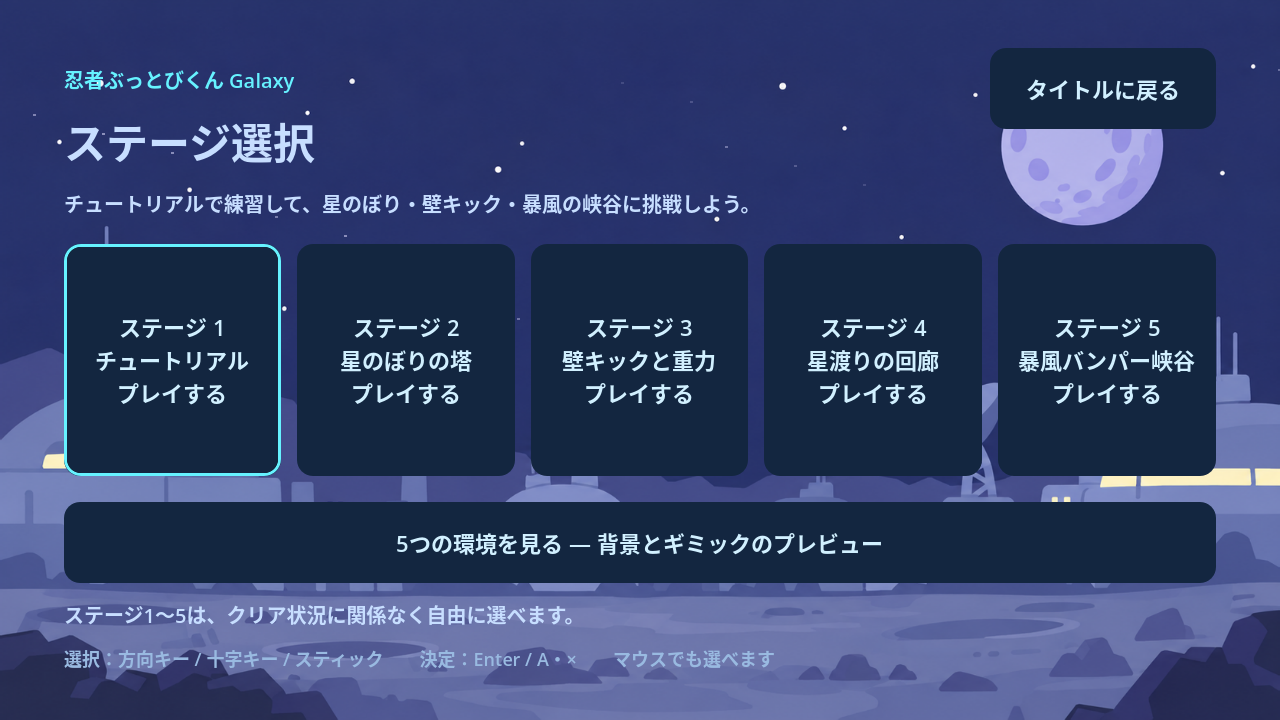
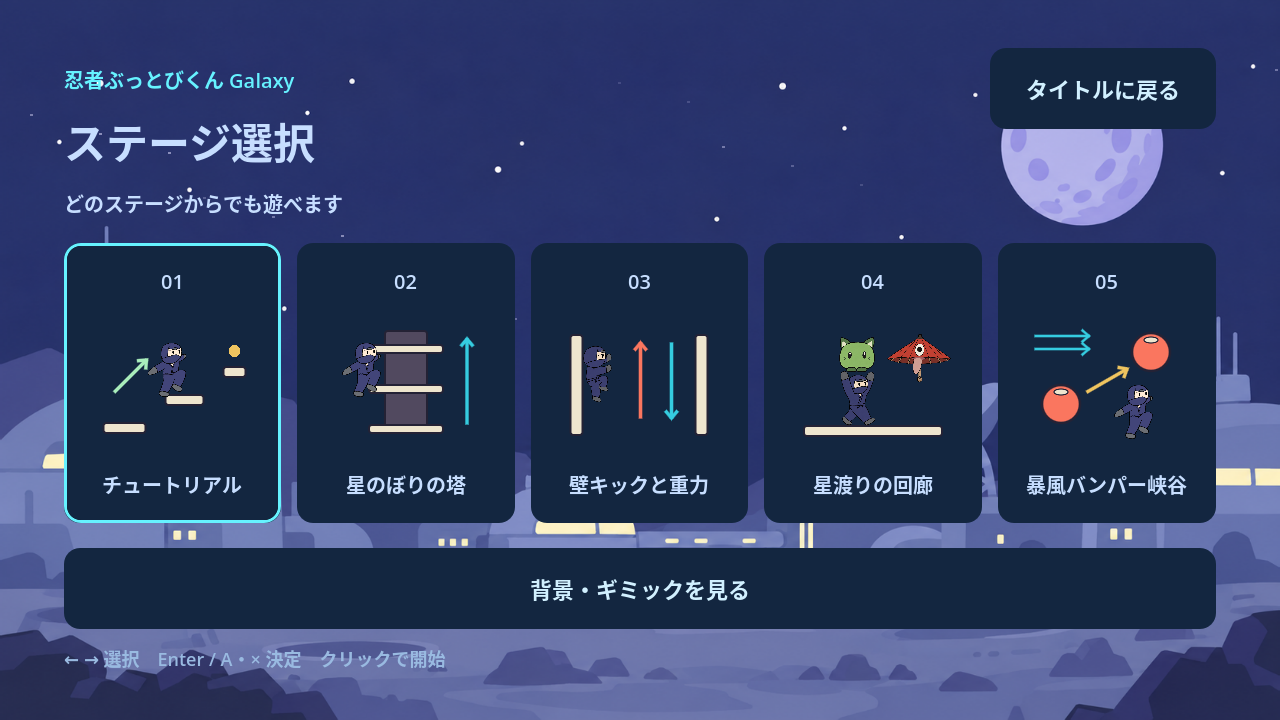
✨ ステージ選択に遊びを伝える小さな絵を追加

diff --git a/docs/stage-selection.md b/docs/stage-selection.md
@@ -16,13 +16,13 @@
 
 番号は表示順を表す。ステージ1〜5は自由に選べ、前のステージのクリアを開始条件にしない。開始時はステージ1にフォーカスを置く。右操作でステージ5まで移動でき、右端ではそれ以上進まない。下操作で環境プレビューへ移れる。
 
-背景は宇宙基地。選択中の枠を水色で示す。
+背景は宇宙基地。カードには番号・静止した小さな絵・ステージ名を縦に並べ、練習、塔の上昇、壁と重力、相棒、バンパーと風を表す。説明段落と「プレイする」の繰り返しを省き、自由に選べる旨と操作を短い行で表示する。選択中は水色の枠を付ける。カード全体が標準のButtonで、絵や文字はマウスとフォーカスの操作を妨げない。ボタンのアクセシビリティ名には番号とステージ名を残す。
 
 ![ステージ選択画面](screenshots/stage-selection.png)
 
 ## 環境プレビュー
 
-「5つの環境を見る」から、宇宙基地・生活圏・未開発・溶岩・邪悪なオーラの背景・地形・ギミックを操作できるプレビューへ入る。攻略コースとは区別する。数字キー1〜5、ゲームパッドのL／R、選択欄で環境を切り替える。背景の動きはMキー、Y／△、チェックボタンで停止・再開できる。
+「背景・ギミックを見る」から、宇宙基地・生活圏・未開発・溶岩・邪悪なオーラの背景・地形・ギミックを操作できるプレビューへ入る。攻略コースとは区別する。数字キー1〜5、ゲームパッドのL／R、選択欄で環境を切り替える。背景の動きはMキー、Y／△、チェックボタンで停止・再開できる。
 
 ## 操作と再開
 
@@ -48,7 +48,7 @@
 - `scenes/stage_3.tscn` / `scripts/stage_3.gd`：壁キックと重力。
 - `scenes/stage_4.tscn` / `scripts/stage_4.gd`：星渡りの回廊。
 - `scenes/stage_5.tscn` / `scripts/stage_5.gd`：暴風バンパー峡谷。「未開発の惑星」を背景に、番号順のバンパー反射と風を使う12部屋。反射をすべてつなぐと部屋の出口が開く。第1〜11室は出口の足場への着地、または画面右端を越えた時点で次の部屋へ進む。落下や赤い障害物への接触で現在の部屋の入口へ戻る。
-- `tests/stage_select_test.gd`：起動、表示順、3種類の入力、全5ステージの選択、戻る操作、再入場時の初期化。
+- `tests/stage_select_test.gd`：起動、表示順、3種類の入力、全5ステージの選択、戻る操作、再入場時の初期化、画面内の配置、絵と見出しの重なり。描画ありで `-- --screenshots` を付けると、ステージ1と5の選択状態を撮影する。
 - `tests/stage_5_test.gd`：全12部屋の実入力攻略、最終到着台、復帰、ヒント、メニュー、再入場時の初期化。
 - `tests/stage_5_exit_test.gd`：第1〜11室の出口着地・空中ダッシュ退出で1回だけ次室へ進むことと、未達成時の退出禁止。
 

diff --git a/README.md b/README.md
@@ -23,7 +23,7 @@ F5で起動すると、宇宙背景の中央に「忍者ぶっとびくん Galax
 
 ## ステージ選択
 
-スタート画面のSTARTから、ステージ1〜5が左から順に並んだ選択画面へ進みます。「ステージ1：チュートリアル」「ステージ2：星のぼりの塔」「ステージ3：壁キックと重力」「ステージ4：星渡りの回廊」「ステージ5：暴風バンパー峡谷」を自由に選べます。「5つの環境を見る」から、全環境の背景・地形・ギミックを操作できるプレビューへ入れます。
+スタート画面のSTARTから、ステージ1〜5が左から順に並んだ選択画面へ進みます。「ステージ1：チュートリアル」「ステージ2：星のぼりの塔」「ステージ3：壁キックと重力」「ステージ4：星渡りの回廊」「ステージ5：暴風バンパー峡谷」を自由に選べます。各カードには、練習の段差、塔の上昇、壁と重力、相棒、バンパーと風を表す小さな絵を添えています。「背景・ギミックを見る」から、全環境の背景・地形・ギミックを操作できるプレビューへ入れます。
 
 クリック、方向キー＋Enter、ゲームパッドの十字キー／左スティック＋A／×で選べます。全プレイ画面でEsc／Back・Select、または「ポーズ [Esc]」からポーズメニューを開けます。背景を含むゲーム全体が止まり、再開・ヒント切り替え・チェックポイントからのやり直し・ステージ選択への帰還を選べます。ヒントのない画面では該当ボタンを表示しません。帰還時は進み具合が保存されない旨を確認します。再選択時は最初から始まり、進捗は保存しません。クリア後も、引き続き自由に練習できます。
 
